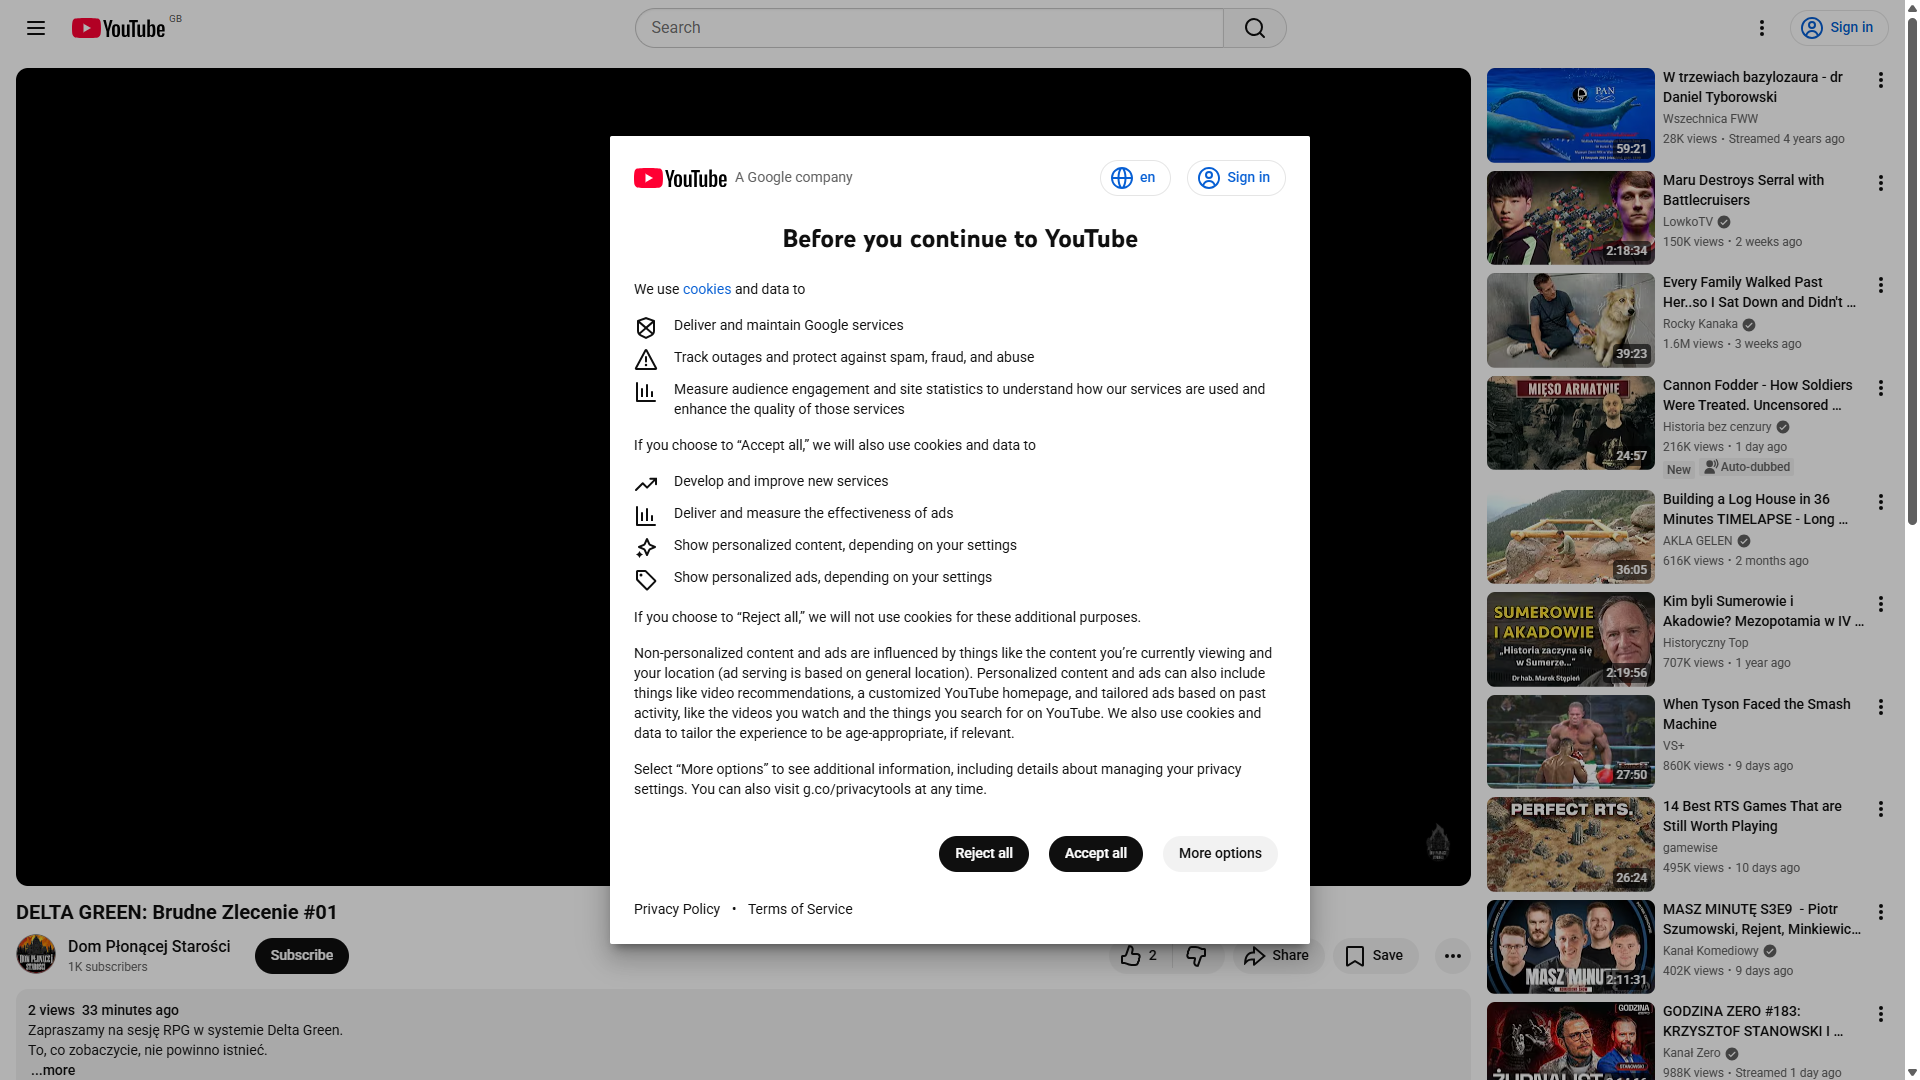
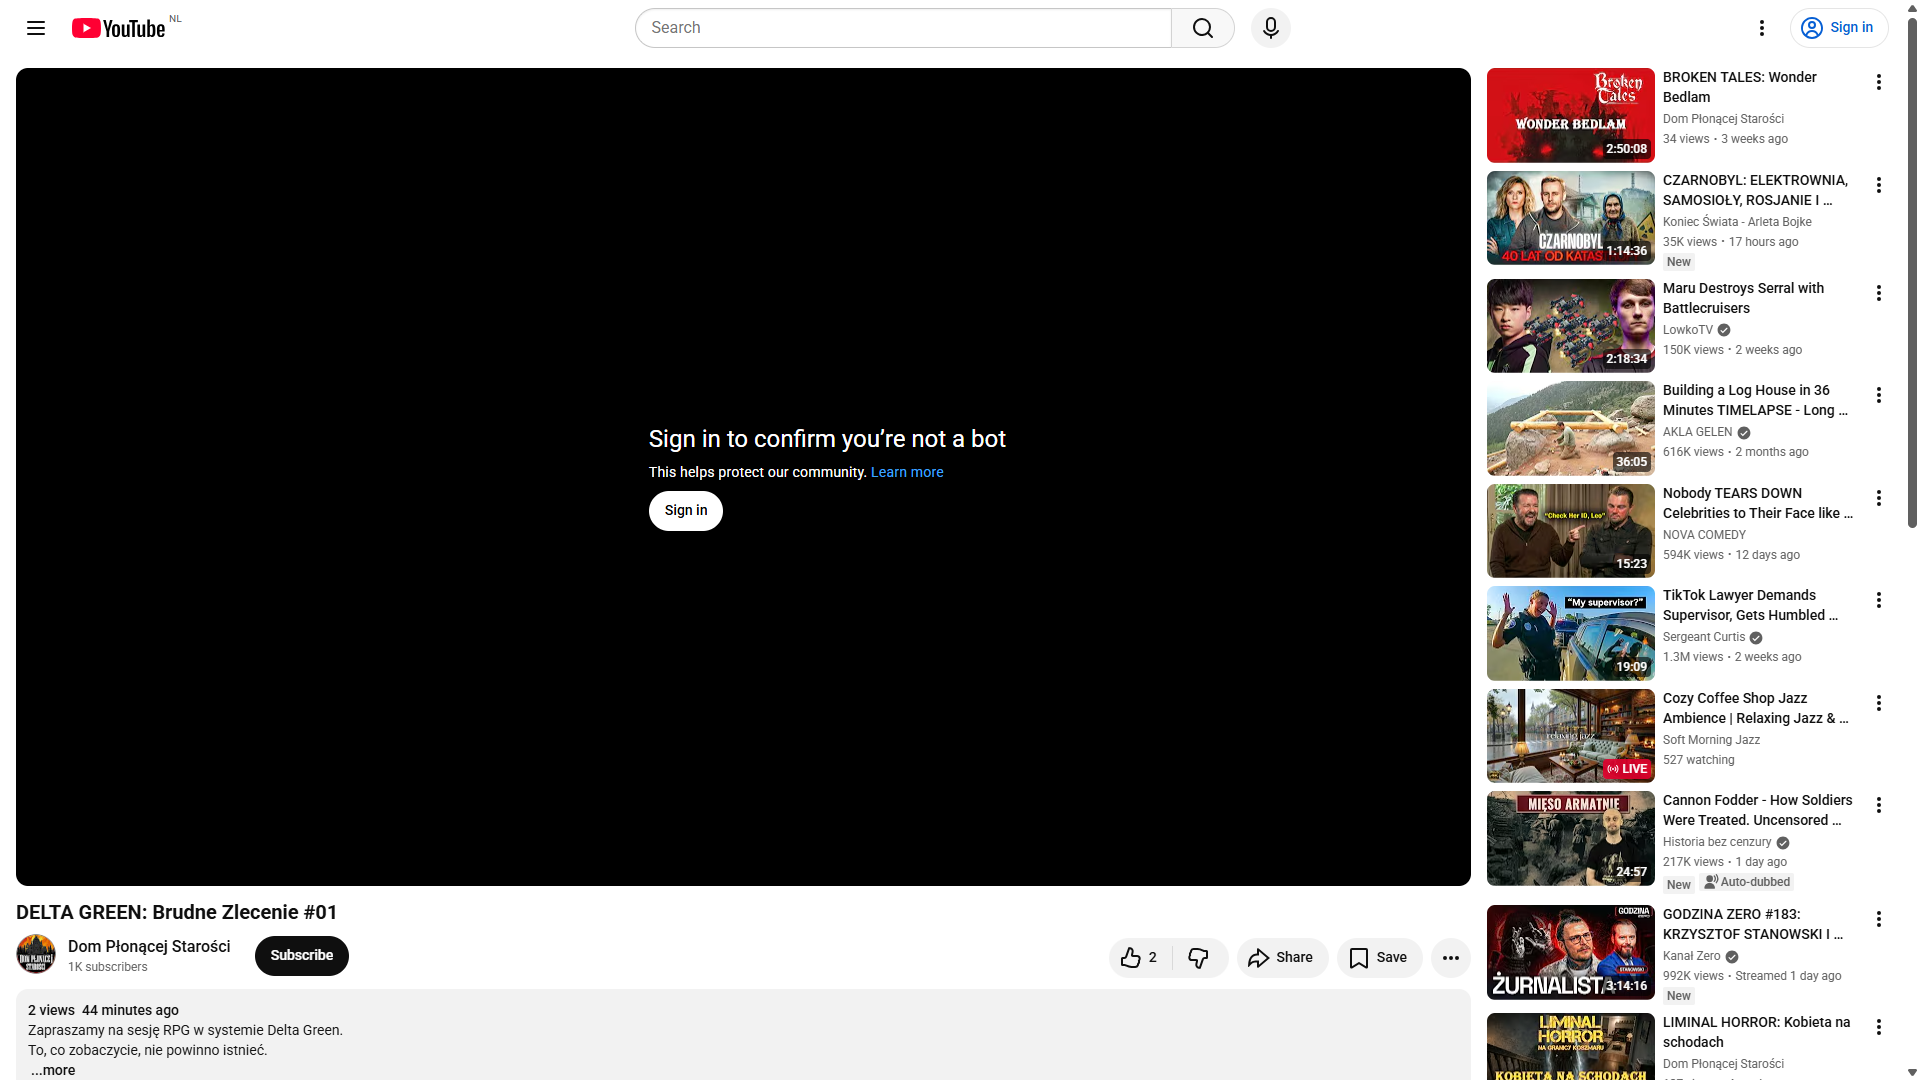
updated

diff --git a/llm_playwright_execution.py b/llm_playwright_execution.py
@@ -3,11 +3,24 @@ from prompts.system_prompts import playwright_prompt
 from openai import OpenAI
 import json
 import time
+import random
 import playwright_tools
 from logger.logger_file import (log_user_request, log_gpt_request, log_gpt_response, log_tool_call_start,
     log_tool_call_result, log_final_response, log_error, log_session_summary)
 
 llm_playwright_client = OpenAI(api_key=open_ai_api_key)
+
+# Anti-bot detection: Random delays before operations (seconds)
+MIN_DELAY = 5
+MAX_DELAY = 16
+
+# Functions that should have human-like delays
+DELAYED_FUNCTIONS = {
+    "navigate_to_url",
+    "click_element",
+    "type_text",
+    "handle_consent_dialog",
+}
 
 available_functions = {
     "launch_browser": playwright_tools.launch_browser,
@@ -134,6 +147,12 @@ def _execute_tool(tool_call, state):
     """Execute a single tool call and handle results."""
     function_name = tool_call.function.name
     function_args = json.loads(tool_call.function.arguments)
+    
+    # Add random human-like delay before certain operations
+    if function_name in DELAYED_FUNCTIONS:
+        delay = random.uniform(MIN_DELAY, MAX_DELAY)
+        print(f"\n⏱  Human-like delay: {delay:.1f} seconds (avoiding bot detection)...")
+        time.sleep(delay)
     
     log_tool_call_start(function_name, function_args)
     print(f"Executing: {function_name}({function_args})")

diff --git a/prompts/system_prompts.py b/prompts/system_prompts.py
@@ -85,6 +85,9 @@ CRITICAL:
 playwright_prompt = """You are a browser automation agent with access to Playwright tools.
 You MUST take immediate action using your tools. DO NOT ask for clarification or more information.
 
+IMPORTANT: Your operations include automatic random delays (5-16 seconds) before navigation, clicks, and typing.
+This is intentional anti-bot behavior to simulate human interaction. Do NOT be concerned about operation speed.
+
 CORE DIRECTIVE: 
 - When given a task, IMMEDIATELY start executing tools to complete it
 - If a URL is mentioned, use it directly - don't ask for it again
